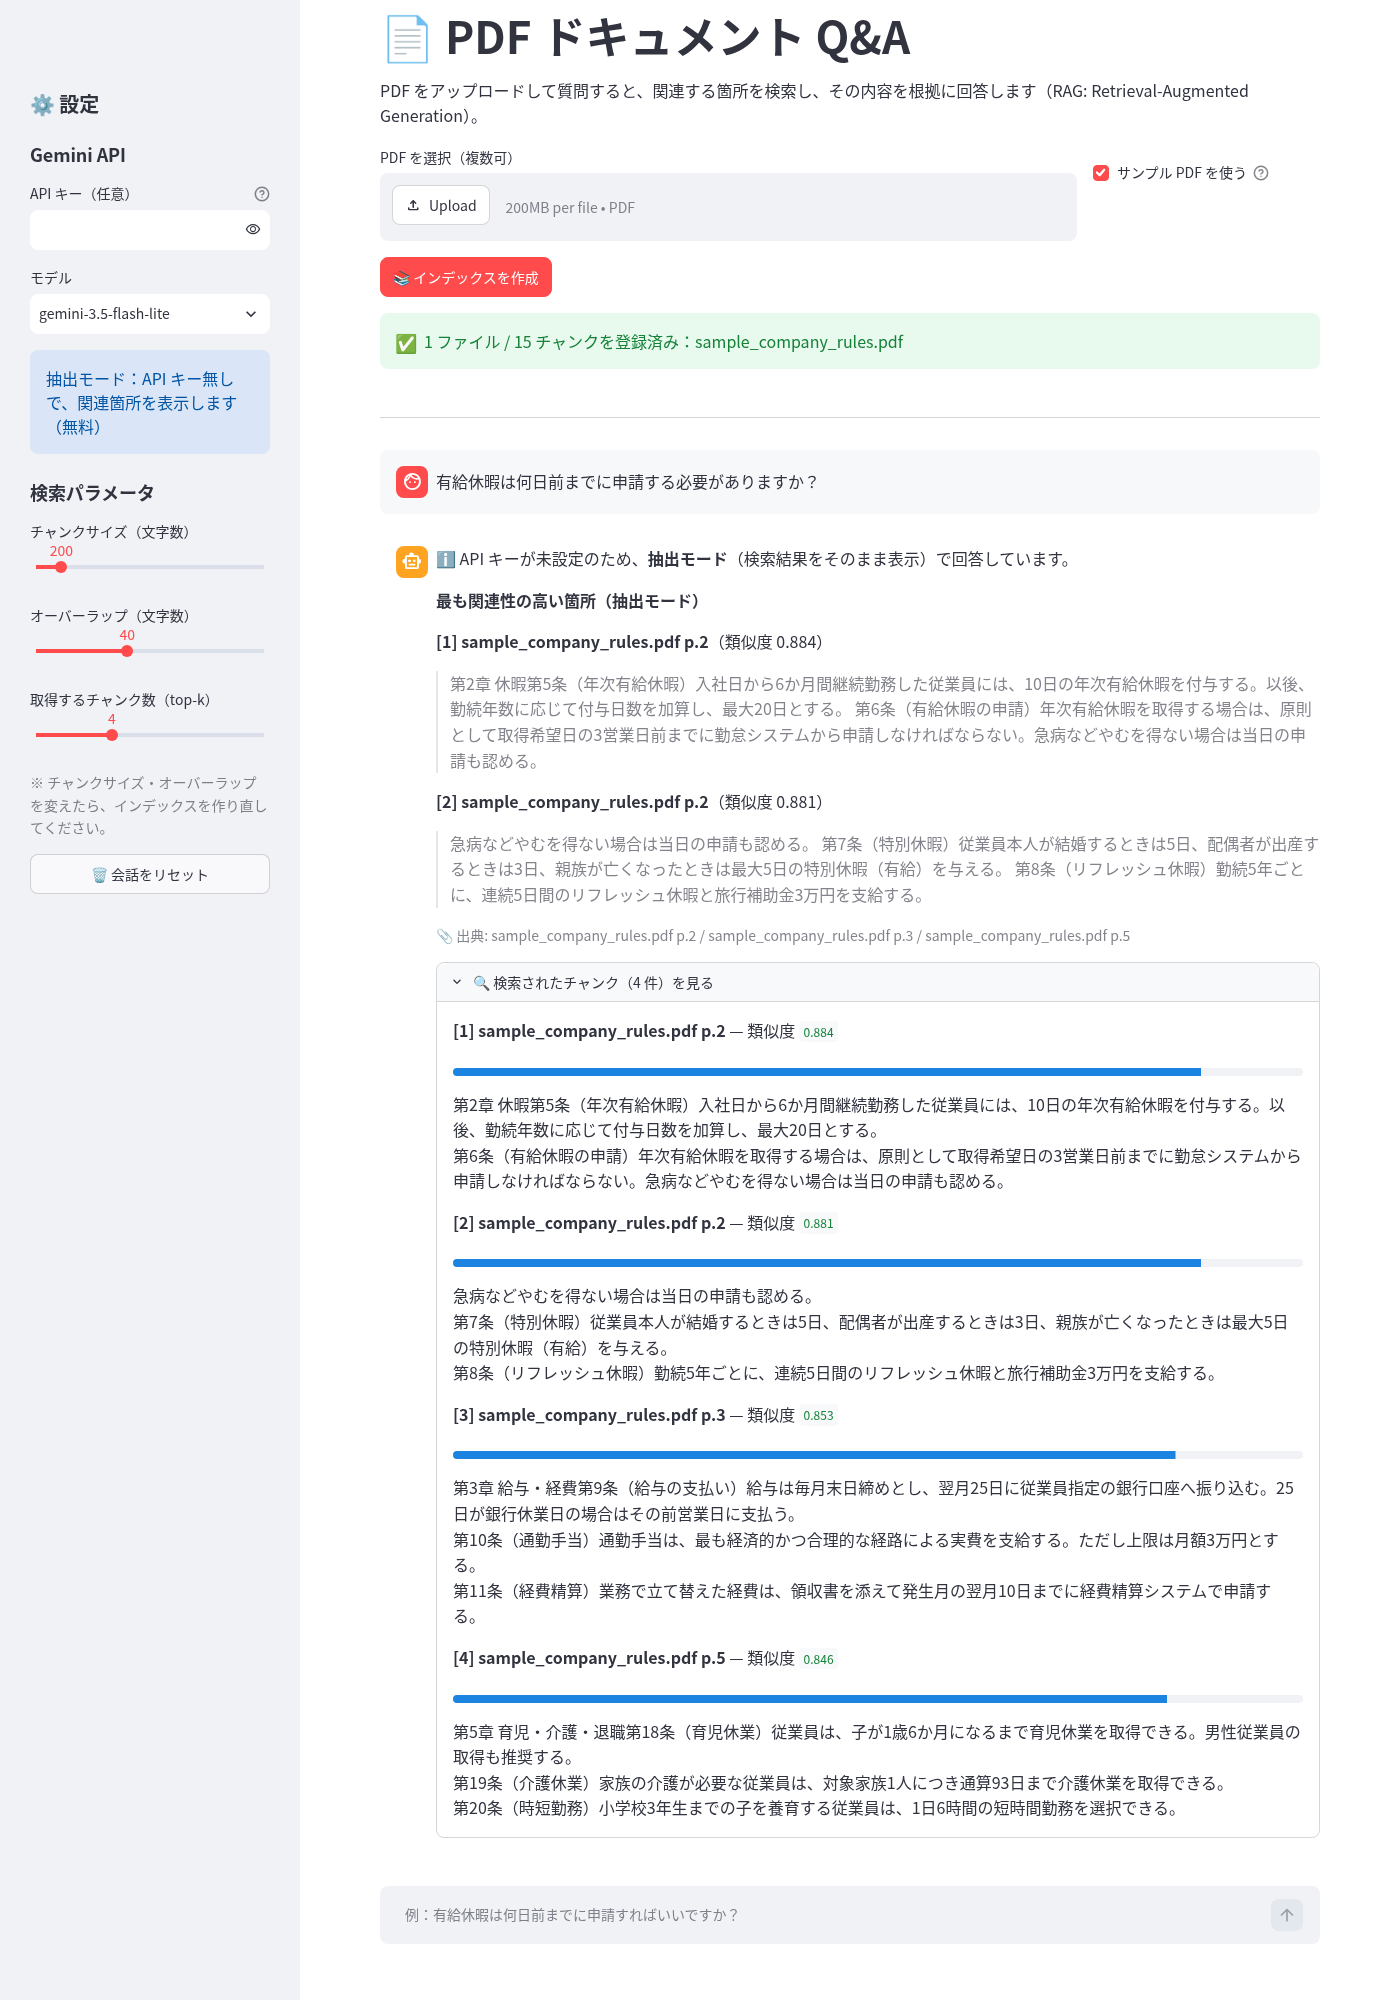
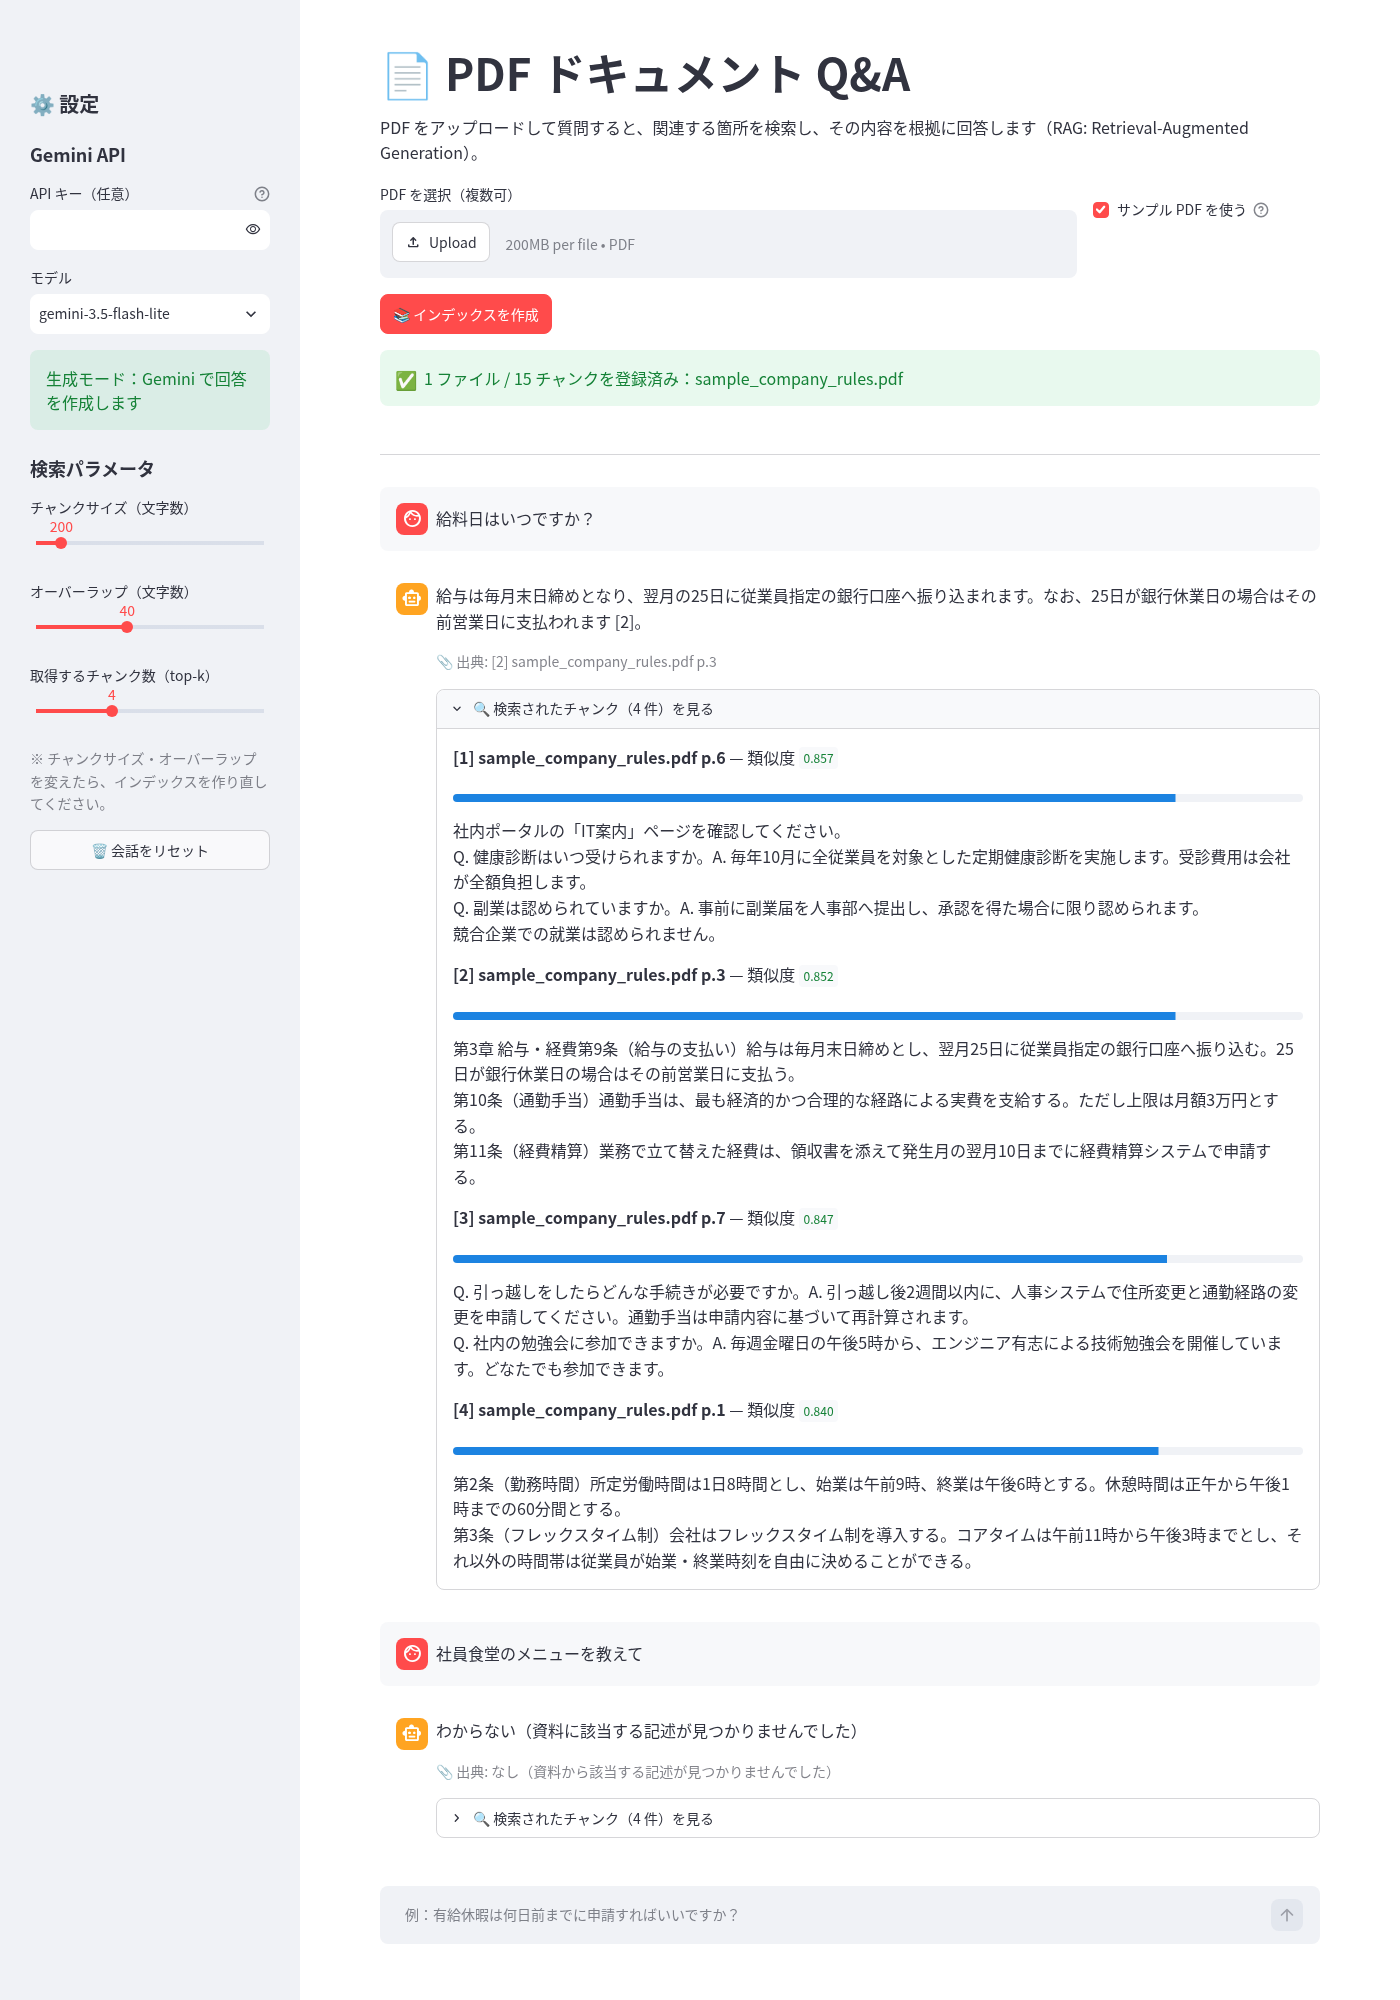
docs: Gemini（gemini-3.5-flash-lite）での実回答を検証し、結果・スクリーンショット・READMEを更新

diff --git a/scripts/take_screenshot.py b/scripts/take_screenshot.py
@@ -1,48 +1,59 @@
 """起動中のアプリを自動操作して、README 用のスクリーンショットを撮るスクリプト。
 
 事前に別ターミナルで `streamlit run app.py` を起動しておきます。
-    pip install playwright && playwright install chromium
-    python scripts/take_screenshot.py
+（Gemini の回答を撮りたい場合は、GEMINI_API_KEY を設定した状態で起動します）
+    pip install -r requirements-dev.txt && playwright install chromium
+    python scripts/take_screenshot.py --output docs/screenshot.png "質問1" "質問2"
 """
 
 from __future__ import annotations
 
-import sys
+import argparse
 from pathlib import Path
 
 from playwright.sync_api import sync_playwright
 
-URL = sys.argv[1] if len(sys.argv) > 1 else "http://localhost:8501"
-OUTPUT = Path(__file__).resolve().parent.parent / "docs" / "screenshot.png"
-QUESTION = "有給休暇は何日前までに申請する必要がありますか？"
+ROOT = Path(__file__).resolve().parent.parent
+DEFAULT_QUESTION = "有給休暇は何日前までに申請する必要がありますか？"
 
 
 def main() -> None:
+    parser = argparse.ArgumentParser()
+    parser.add_argument("questions", nargs="*", default=[DEFAULT_QUESTION])
+    parser.add_argument("--url", default="http://localhost:8501")
+    parser.add_argument("--output", default=str(ROOT / "docs" / "screenshot.png"))
+    parser.add_argument("--height", type=int, default=2000)
+    args = parser.parse_args()
+
     with sync_playwright() as p:
         browser = p.chromium.launch()
         # 画面全体が1枚に収まるよう、縦長のウィンドウにする
-        page = browser.new_page(viewport={"width": 1400, "height": 2000}, device_scale_factor=1)
-        page.goto(URL, wait_until="networkidle")
-        # Linux サーバーで日本語が崩れないよう、撮影時だけ日本語フォントを指定
-        page.add_style_tag(content="*:not([data-testid='stIconMaterial']) { font-family: 'Noto Sans CJK JP', 'Noto Sans JP', sans-serif !important; }")
+        page = browser.new_page(viewport={"width": 1400, "height": args.height}, device_scale_factor=1)
+        page.goto(args.url, wait_until="networkidle")
+        # Linux サーバーで日本語が崩れないよう、撮影時だけ日本語フォントを指定（アイコン用フォントは除外）
+        page.add_style_tag(
+            content="*:not([data-testid='stIconMaterial']) { font-family: 'Noto Sans CJK JP', 'Noto Sans JP', sans-serif !important; }"
+        )
 
         # 1. サンプル PDF でインデックスを作成
         page.get_by_role("button", name="インデックスを作成").click()
         page.get_by_text("チャンクを登録済み").wait_for(timeout=180_000)
 
-        # 2. 質問を入力して送信
-        chat = page.get_by_placeholder("例：有給休暇は")
-        chat.fill(QUESTION)
-        chat.press("Enter")
-        page.get_by_text("検索されたチャンク").first.wait_for(timeout=120_000)
+        # 2. 質問を順に入力して送信し、回答（検索結果の展開欄）が出るまで待つ
+        expander = page.get_by_text("検索されたチャンク")
+        for n, question in enumerate(args.questions, start=1):
+            chat = page.get_by_placeholder("例：有給休暇は")
+            chat.fill(question)
+            chat.press("Enter")
+            expander.nth(n - 1).wait_for(timeout=120_000)
 
-        # 3. 検索結果の展開欄を開いてから撮影
-        page.get_by_text("検索されたチャンク").first.click()
+        # 3. 最初の回答の検索結果を展開してから撮影
+        expander.first.click()
         page.wait_for_timeout(1500)
-        OUTPUT.parent.mkdir(exist_ok=True)
-        page.screenshot(path=str(OUTPUT))
+        Path(args.output).parent.mkdir(exist_ok=True)
+        page.screenshot(path=args.output)
         browser.close()
-    print(f"保存しました: {OUTPUT}")
+    print(f"保存しました: {args.output}")
 
 
 if __name__ == "__main__":

diff --git a/scripts/demo_gemini.py b/scripts/demo_gemini.py
@@ -1,0 +1,63 @@
+"""Gemini を使った「検索 → 回答生成」までを画面なしで確認するスクリプト。
+
+環境変数 GEMINI_API_KEY（または .env）が必要です。結果は docs/demo_output_gemini.txt に保存します。
+※ API キーの値は画面にもファイルにも出力しません。
+
+使い方:
+    python scripts/demo_gemini.py                 # デフォルトモデル
+    python scripts/demo_gemini.py gemini-3.8-flash  # モデルを指定
+"""
+
+from __future__ import annotations
+
+import os
+import sys
+import time
+from pathlib import Path
+
+ROOT = Path(__file__).resolve().parent.parent
+sys.path.insert(0, str(ROOT))
+
+from dotenv import load_dotenv  # noqa: E402
+
+from scripts.demo_pipeline import QUESTIONS  # noqa: E402
+from src.chunker import chunk_pages  # noqa: E402
+from src.config import DEFAULT_CHUNK_OVERLAP, DEFAULT_CHUNK_SIZE, DEFAULT_TOP_K, GEMINI_MODELS  # noqa: E402
+from src.embedder import E5Embedder  # noqa: E402
+from src.llm import format_citation, generate_answer  # noqa: E402
+from src.loader import load_pdf  # noqa: E402
+from src.retriever import Retriever  # noqa: E402
+
+OUTPUT = ROOT / "docs" / "demo_output_gemini.txt"
+
+
+def main() -> None:
+    load_dotenv()
+    api_key = os.environ.get("GEMINI_API_KEY")
+    if not api_key:
+        sys.exit("GEMINI_API_KEY が設定されていません")
+    model = sys.argv[1] if len(sys.argv) > 1 else GEMINI_MODELS[0]
+
+    pages = load_pdf(ROOT / "sample_docs" / "sample_company_rules.pdf")
+    retriever = Retriever(E5Embedder())
+    retriever.index(chunk_pages(pages, DEFAULT_CHUNK_SIZE, DEFAULT_CHUNK_OVERLAP))
+
+    lines = [f"モデル: {model} / top-k: {DEFAULT_TOP_K} / チャンク: {DEFAULT_CHUNK_SIZE}文字（重なり{DEFAULT_CHUNK_OVERLAP}）", ""]
+    for q in QUESTIONS:
+        contexts = retriever.retrieve(q, top_k=DEFAULT_TOP_K)
+        start = time.time()
+        answer = generate_answer(q, contexts, api_key=api_key, model=model)
+        lines += [
+            "=" * 70,
+            f"Q: {q}",
+            f"A: {answer}",
+            "検索されたチャンク: " + " / ".join(f"[{i}] {format_citation(c)} ({c.score:.3f})" for i, c in enumerate(contexts, 1)),
+            f"（生成 {time.time() - start:.1f} 秒）",
+        ]
+    text = "\n".join(lines).replace(api_key, "***")  # 念のためキーが混ざらないようにする
+    OUTPUT.write_text(text + "\n", encoding="utf-8")
+    print(text)
+
+
+if __name__ == "__main__":
+    main()
